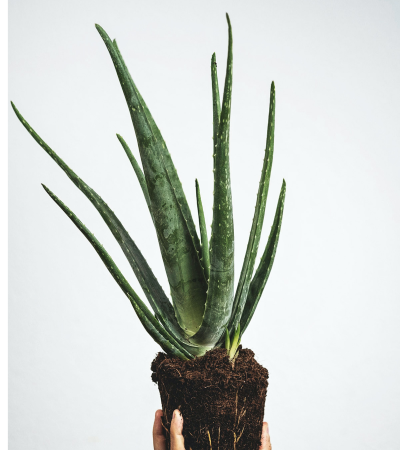
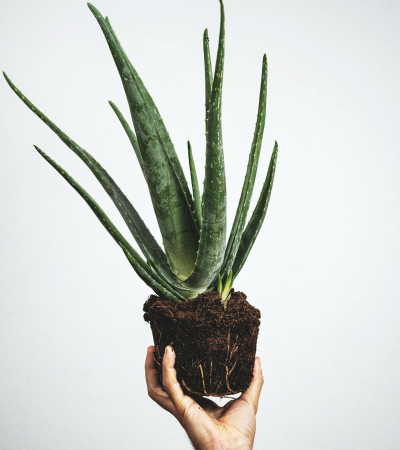
updates to card layouts

diff --git a/plants-app/src/components/Plants/Plants.scss b/plants-app/src/components/Plants/Plants.scss
@@ -51,22 +51,20 @@
     }
 }
 .row{
-    display: flex;
-    justify-content: center;
-    flex-direction: row;
-    flex-wrap: wrap;
+    // display: flex;
+    // justify-content: center;
+    // flex-direction: row;
+    // flex-wrap: wrap;
     display: grid;
     margin: 0 auto;
+    row-gap: 3rem;
+    column-gap: 3rem;
     grid-template-columns: 1fr 1fr 1fr 1fr;
-    @include bp-xx-large{
+    @include bp-x-large{
         grid-template-columns: 1fr 1fr 1fr; 
     }
     @include bp-large{
         grid-template-columns: 1fr 1fr;   
-    }
-    @include bp-medium{
-        grid-template-columns: 1fr 1fr;   
-        
     }
     @include bp-small{
         grid-template-columns: 1fr;   
@@ -74,28 +72,23 @@
     }
   
     .card{
-    
-        height: fit-content;
-        margin: 1rem;
-        box-shadow: 0px 0px 7px -1px lightgray;
-        overflow: hidden;
         border-radius:2rem;
         position: relative;
         max-width: 550px;
-        max-height:900px;
+        box-shadow: 0px 0px 3px -5px $forest-green;
+        border: .1px $blush solid;
         display:grid;
             .image{
                 overflow: hidden;
                 width: 100%;
-                height: 30vw;
-                max-width: 550px;
-                max-height:500px;
+                height: 300px;
                 position: relative;
+                border-radius: 2rem 2rem 0 0;
                 @include bp-large{
-                    height: 40vw;
+                    height: 350px;
                 }
                 @include bp-small{
-                    height: 75vw;
+                    height: 300px;
                 }
 
                 &:before {
@@ -106,12 +99,18 @@
                     bottom: 0;
                     right: 0;
                     z-index: 1;
-                    background: linear-gradient(to bottom,  rgba(255, 255, 255, 0), rgba(255, 255, 255, 0),rgba(255, 255, 255, 0),rgba(255, 255, 255, 0), rgba(255, 255, 255, .2),rgba(255, 255, 255, .4),rgba(255, 255, 255, .6),rgba(255, 255, 255, .8), rgba(255, 255, 255, 1));
+                    // background: linear-gradient(to bottom,  rgba(255, 255, 255, 0), rgba(255, 255, 255, 0),rgba(255, 255, 255, 0),rgba(255, 255, 255, 0), rgba(255, 255, 255, .2),rgba(255, 255, 255, .4),rgba(255, 255, 255, .6),rgba(255, 255, 255, .8), rgba(255, 255, 255, 1));
                     // background: rgba(255, 255, 255, .5);
+                    background-image: linear-gradient(
+                        rgba(255, 255, 255, 0) 0%,
+                        rgba(255, 255, 255, .1) 55%,
+                        rgba(255, 255, 255, 1) 100%
+                    );
                 }
                 
                 .img{
                     object-fit: cover;
+                    object-position: top center;
                     height: 100%;
                     width: 100%;
                     position: relative;
@@ -127,6 +126,17 @@
           .plant-id{
               padding: 0 10%;
               padding-bottom: 2rem;
+              background-color: white;
+              h5{
+                white-space: nowrap;
+                overflow: hidden;
+                text-overflow: ellipsis;
+              }
+              .subtitle{
+                  white-space: nowrap;
+                  overflow: hidden;
+                  text-overflow: ellipsis;
+              }
           }
             button{
                 width: 100%;
@@ -135,6 +145,7 @@
                 background-color: $blush;
                 margin-bottom: unset;
                 color: $gray;
+                border-radius: 0 0 2rem 2rem;
                 &:hover{
                     background-color: $peach;
                     color: $white;
@@ -202,8 +213,13 @@
             bottom: 0;
             right: 0;
             z-index: 1;
-            background: linear-gradient(to bottom,  rgba(255, 255, 255, 0), rgba(255, 255, 255, 0),rgba(255, 255, 255, 0),rgba(255, 255, 255, 0), rgba(255, 255, 255, .2),rgba(255, 255, 255, .4),rgba(255, 255, 255, .6),rgba(255, 255, 255, .8), rgba(255, 255, 255, 1));
+            // background: linear-gradient(to bottom,  rgba(255, 255, 255, 0), rgba(255, 255, 255, 0),rgba(255, 255, 255, 0),rgba(255, 255, 255, 0), rgba(255, 255, 255, .2),rgba(255, 255, 255, .4),rgba(255, 255, 255, .6),rgba(255, 255, 255, .8), rgba(255, 255, 255, 1));
             // background: rgba(255, 255, 255, .5);
+            background-image: linear-gradient(
+                        rgba(255, 255, 255, 0) 0%,
+                        rgba(255, 255, 255, .1) 55%,
+                        rgba(255, 255, 255, 1) 100%
+                    );
        
         img{
                 object-fit: cover;

diff --git a/plants-app/src/components/AddNote.js b/plants-app/src/components/AddNote.js
@@ -145,9 +145,9 @@ class AddNote extends Component {
         return(
             <>
              <div className='cover plant-logs'>
-                     <h1 className='header'>
+                     <h3 className='header'>
                         Welcome back,  {this.props.name}!
-                    </h1>
+                    </h3>
                 </div>
             < div id='plant-logs' className='intro'>
                 <DeleteModal delete={this.state.modal} deleteRoute={this.deleteRoute} cancelDelete={this.cancelDelete} />
@@ -172,7 +172,7 @@ class AddNote extends Component {
              
             <div className='notes'>
             <form onSubmit={this.handleSubmit}>
-                <h3>Add A New Note</h3>
+                <h5>Add A New Note</h5>
                 <div className='form-inputs'>
                 <input
                     type= 'date'
@@ -245,8 +245,8 @@ class AddNote extends Component {
                 {sortedNotes.map((el, idx)=>{
                     return(     
                         <div className='note' key={`entry${idx}`}>
-                            <h4>{el.date}</h4>    
-                            <h3>Notes:</h3>
+                            <div className='overline'>{el.date}</div>    
+                            <h5>Notes:</h5>
                             <div className='todos'>
                             {el.water===true && <mySVG.Watering  />}
                             {el.fertilize===true && <mySVG.Fertilizer />}

diff --git a/plants-app/src/components/MyPlants.scss b/plants-app/src/components/MyPlants.scss
@@ -8,15 +8,15 @@
     .buttons{
         display: flex;
         #notes{
-            background-color: $forest-green;
+            background-color: $peach;
             &:hover, &:focus, &:active{
                 background-color: $peach;
             }
             a{
                 color: white;
-                font-family: $body-font;
-                font-size: 1.6rem;
-                font-weight: 600;
+                // font-family: $body-font;
+                // font-size: 1.6rem;
+                // font-weight: 600;
                 text-decoration: unset;
             }
         }
@@ -142,7 +142,7 @@
                 @include bp-small{
                     height: 75vw;
                 }
-                &:after {
+                &:before{
                     content: '';
                     position: absolute;
                     top: 0;
@@ -150,7 +150,12 @@
                     bottom: 0;
                     right: 0;
                     z-index: 1;
-                    background: rgba(234, 236, 232, .2);
+                    // background: rgba(234, 236, 232, .2);
+                    background-image: linear-gradient(
+                        rgba(255, 255, 255, 0) 0%,
+                        rgba(255, 255, 255, .1) 50%,
+                        rgba(255, 255, 255, 1) 100%
+                    );
                 }
                 img{
                     object-fit: cover;

diff --git a/plants-app/src/components/MyPlants.js b/plants-app/src/components/MyPlants.js
@@ -130,15 +130,15 @@ class MyPlants extends React.Component {
         return(
           <>
               <div className='cover my-plants'>
-                     <h1 className='header'>
+                     <h3 className='header'>
                         Welcome back,  {this.props.name}!
-                    </h1>
+                    </h3>
                 </div>
                 
                 <div id="my-plants" className='intro'>
                 <DeleteModal delete={this.state.modal} deleteRoute={this.deleteRoute} cancelDelete={this.cancelDelete} />
                 <form onSubmit={this.handleSubmit}>
-                  <h3>Add New Plant</h3>
+                  <h4>Add New Plant</h4>
                   <div className='inputs'>
                     <input
                         placeholder="title"
@@ -165,7 +165,7 @@ class MyPlants extends React.Component {
                   <div className = 'plant-img'>
                     <img key={el.url} src={el.url} />
                   </div>
-                  <h3 key={idx}>{el.title}</h3>
+                  <h5 key={idx}>{el.title}</h5>
                   <div className='buttons'>
                     <button id='notes'> 
                       <Link className='viewNotes' to={{

diff --git a/plants-app/src/sass/_base.scss b/plants-app/src/sass/_base.scss
@@ -23,7 +23,7 @@ h1 {
   font-size: 9.6rem;
   letter-spacing: -1.5px;
   @include bp-large{
-    font-weight: 8.4rem;
+    font-size: 8.4rem;
   }
 }
 
@@ -33,7 +33,7 @@ h2 {
   color: $peach;
   letter-spacing: -0.5px;
   @include bp-large{
-    font-weight: 5.25rem;
+    font-size: 5.25rem;
   }
 }
 
@@ -42,7 +42,7 @@ h3 {
   color: $forest-green;
   font-weight: 500;
   @include bp-large{
-    font-weight: 4.2rem;
+    font-size: 4.2rem;
   }
 }
 
@@ -51,7 +51,7 @@ h4 {
   font-weight: 500;
   letter-spacing: 0.25px;
   @include bp-large{
-    font-weight: 2.975rem;
+    font-size: 2.975rem;
   }
 }
 
@@ -60,7 +60,7 @@ h5 {
   font-weight: 500;
   color: $forest-green;
   @include bp-large{
-    font-weight: 2.1rem;
+    font-size: 2.1rem;
   }
 }
 h6{

diff --git a/plants-app/src/components/modaDelete/ModalDelete.js b/plants-app/src/components/modaDelete/ModalDelete.js
@@ -19,7 +19,7 @@ class DeleteModal extends Component {
         return(
             <div className='modal' className={this.props.delete ? 'modal modal-show' : 'modal'}>
             <div className='delete-modal-contnet'>
-            <h3>Are you sure you want to delete this note?</h3>
+            <h4>Are you sure you want to delete this?</h4>
             < logo.Plant />
             <div className='confirm-delete'>
                 <button onClick={this.deleteRoute}>yes</button>
